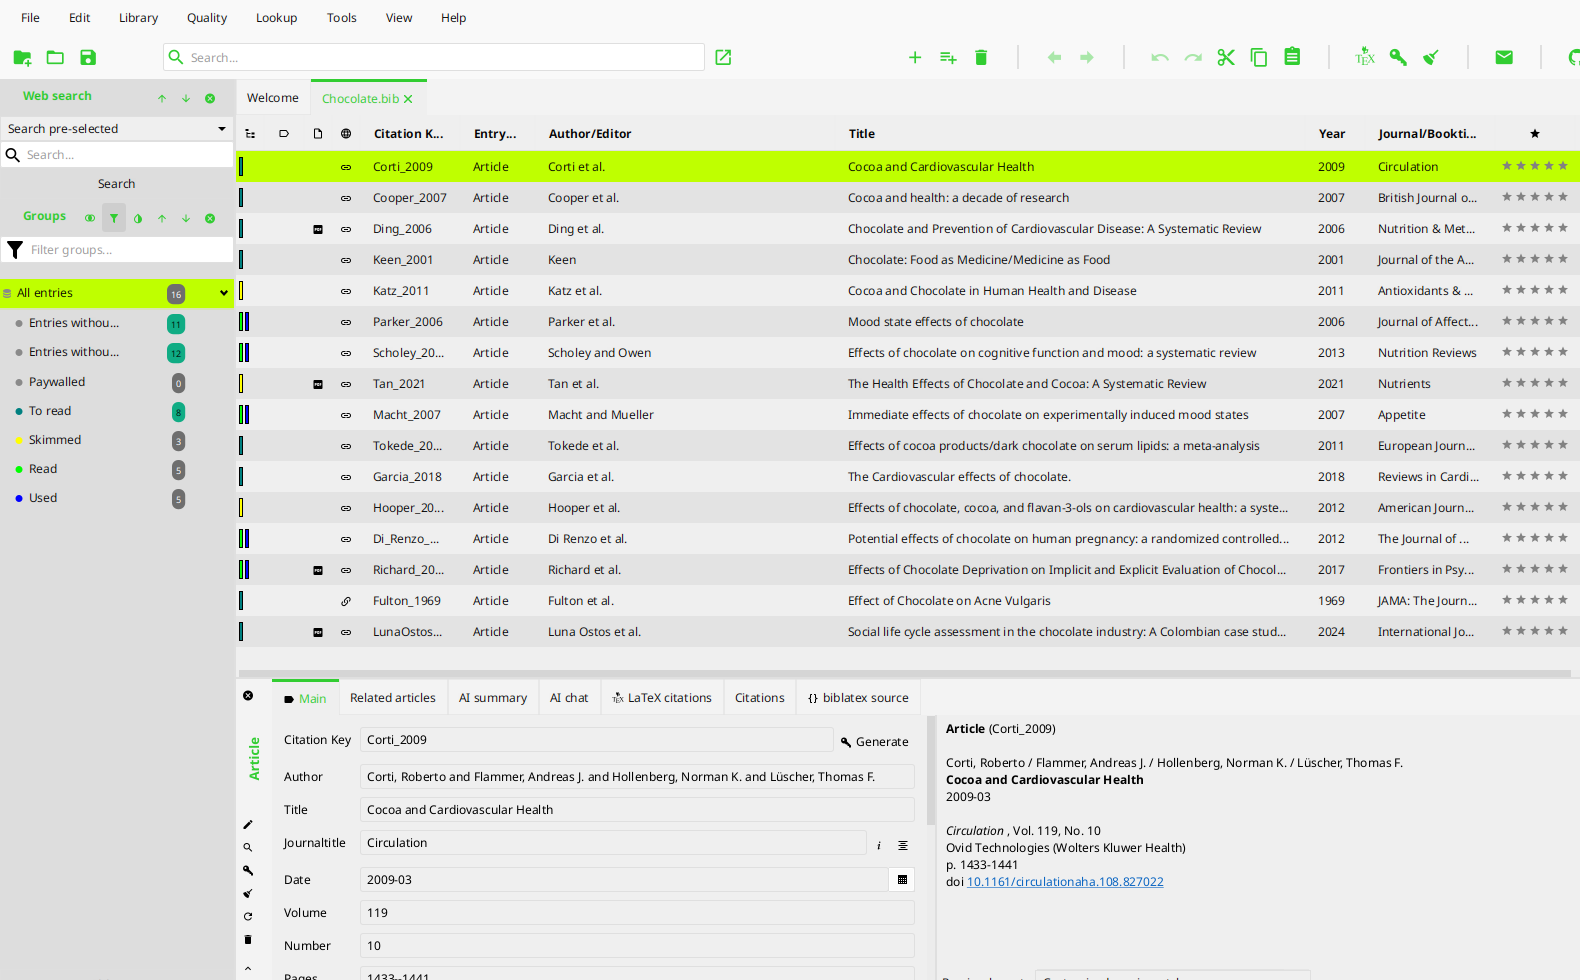
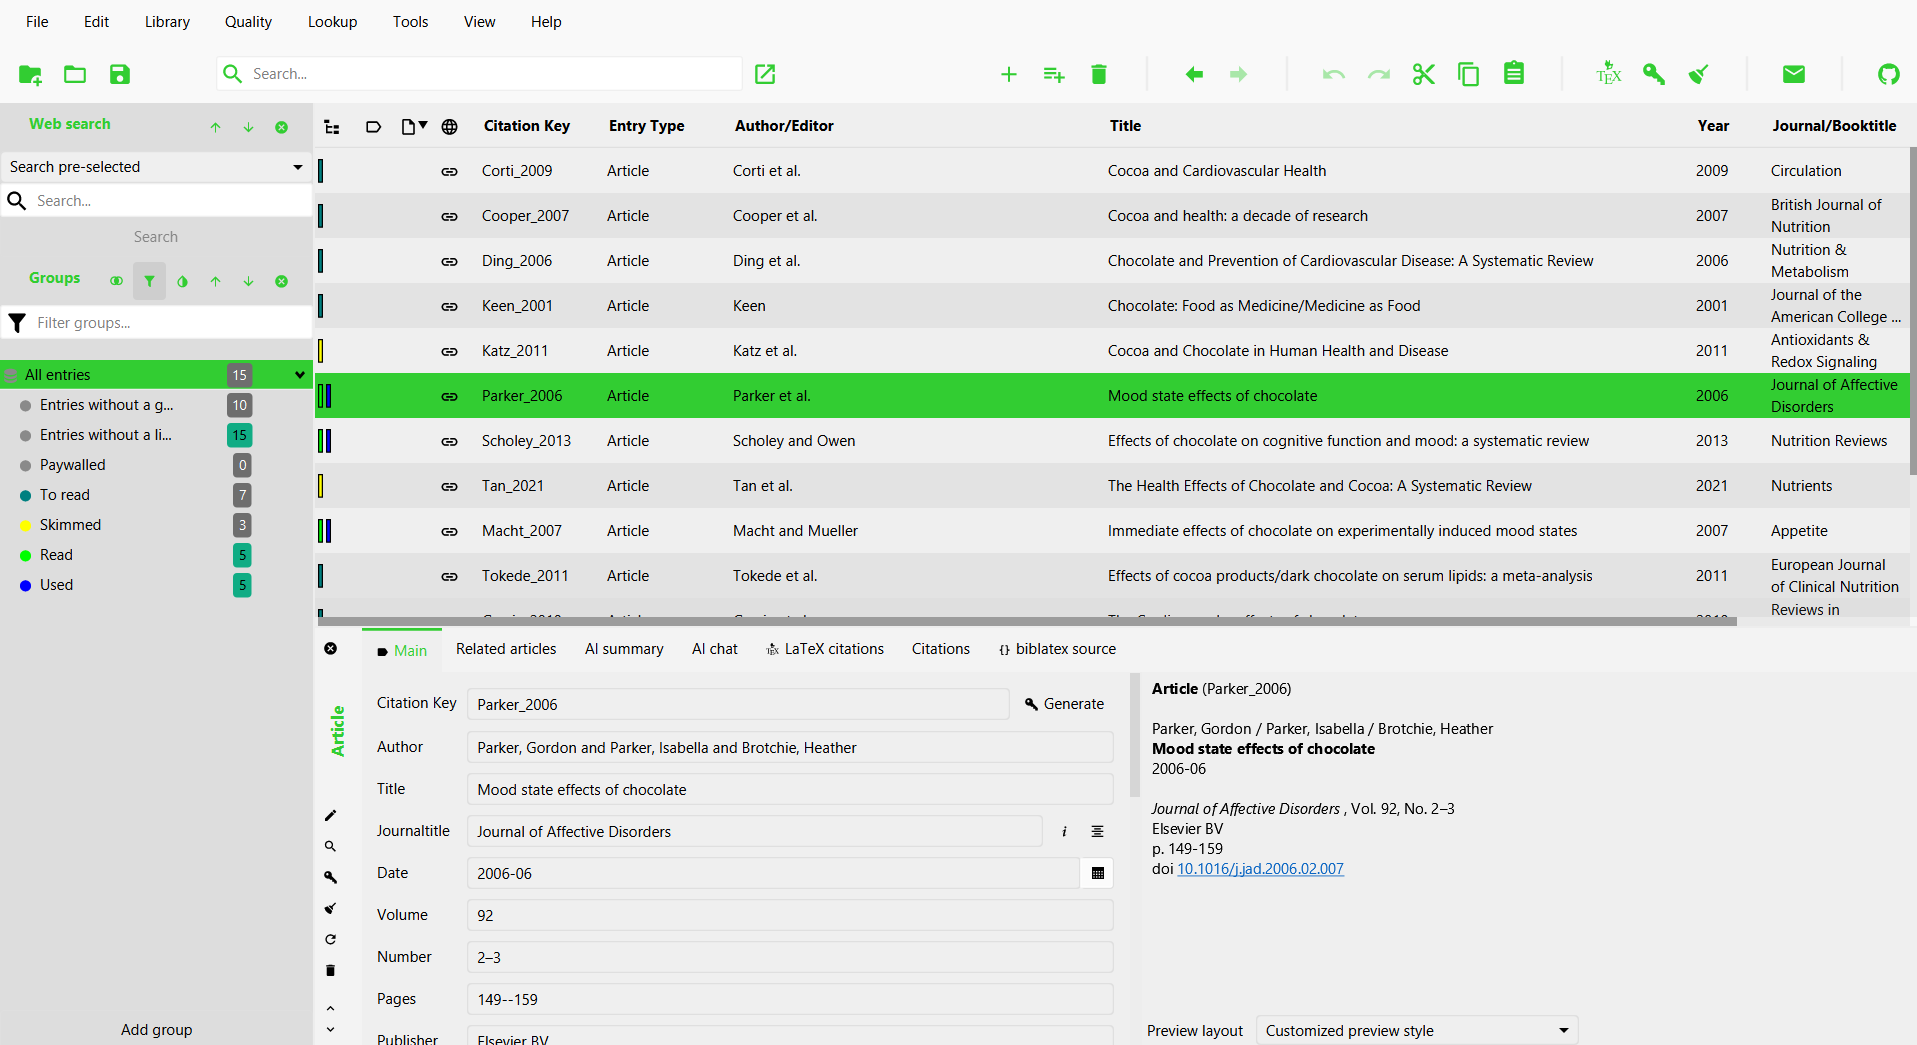
Fix dinogirl limegreen light theme

diff --git a/themes/DinoGirls Themes/lightseagreen-limegreen-contrasttext.css b/themes/DinoGirls Themes/lightseagreen-limegreen-contrasttext.css
@@ -57,10 +57,10 @@
         -color-border-muted: derive(-fx-color, -5%);
         -color-accent: #32CD32;
         -color-link: #32CD32;
-        -color-accent-subtle: #66D762;
-        -color-selection: #66D762;
+        -color-accent-subtle: #32CD32;
+        -color-selection: #32CD32;
         -color-button: transparent;
-        -color-button-default: derive(#66D762, 50%);
+        -color-button-default: derive(#32CD32, 50%);
         -color-button-hover: #EEFFBB;
         -color-button-pressed: #0002;
         -color-overlay-hover: #0001;
@@ -74,9 +74,9 @@
         -color-syntax-keyword: #7559C2;
         -color-scrollbar-thumb: derive(derive(#ebebeb, -5%), -30%);
         -color-scrollbar-track: derive(derive(#ebebeb, 95%), -10%);
-        -color-tooltip-bg: #66D762;
-        -color-drag-target: #66D762;
-        -color-drag-target-hover: derive(#66D762, 80%);
+        -color-tooltip-bg: #32CD32;
+        -color-drag-target: #32CD32;
+        -color-drag-target-hover: derive(#32CD32, 80%);
         -color-badge-bg: derive(#dddddd, -50%);
     }
 }

diff --git a/themes/DinoGirls Themes/lightseagreen-limegreen-greytext.css b/themes/DinoGirls Themes/lightseagreen-limegreen-greytext.css
@@ -57,10 +57,10 @@
         -color-border-muted: derive(-fx-color, -5%);
         -color-accent: #32CD32;
         -color-link: #32CD32;
-        -color-accent-subtle: #66D762;
-        -color-selection: #66D762;
+        -color-accent-subtle: #32CD32;
+        -color-selection: #32CD32;
         -color-button: transparent;
-        -color-button-default: derive(#66D762, 50%);
+        -color-button-default: derive(#32CD32, 50%);
         -color-button-hover: #EEFFBB;
         -color-button-pressed: #0002;
         -color-overlay-hover: #0001;
@@ -74,9 +74,9 @@
         -color-syntax-keyword: #7559C2;
         -color-scrollbar-thumb: derive(derive(#ebebeb, -5%), -30%);
         -color-scrollbar-track: derive(derive(#ebebeb, 95%), -10%);
-        -color-tooltip-bg: #66D762;
-        -color-drag-target: #66D762;
-        -color-drag-target-hover: derive(#66D762, 80%);
+        -color-tooltip-bg: #32CD32;
+        -color-drag-target: #32CD32;
+        -color-drag-target-hover: derive(#32CD32, 80%);
         -color-badge-bg: derive(#dddddd, -50%);
     }
 }
